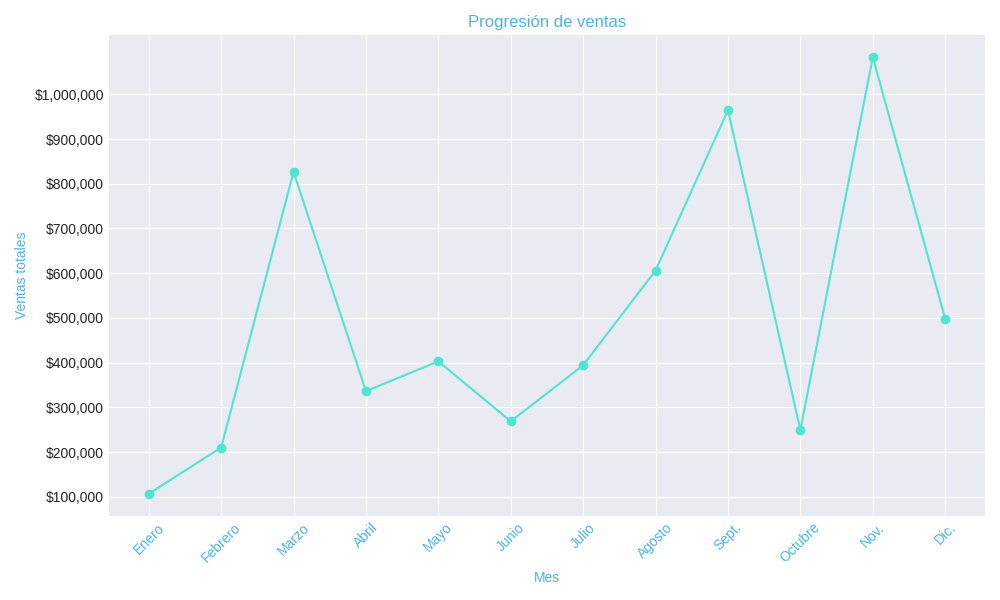
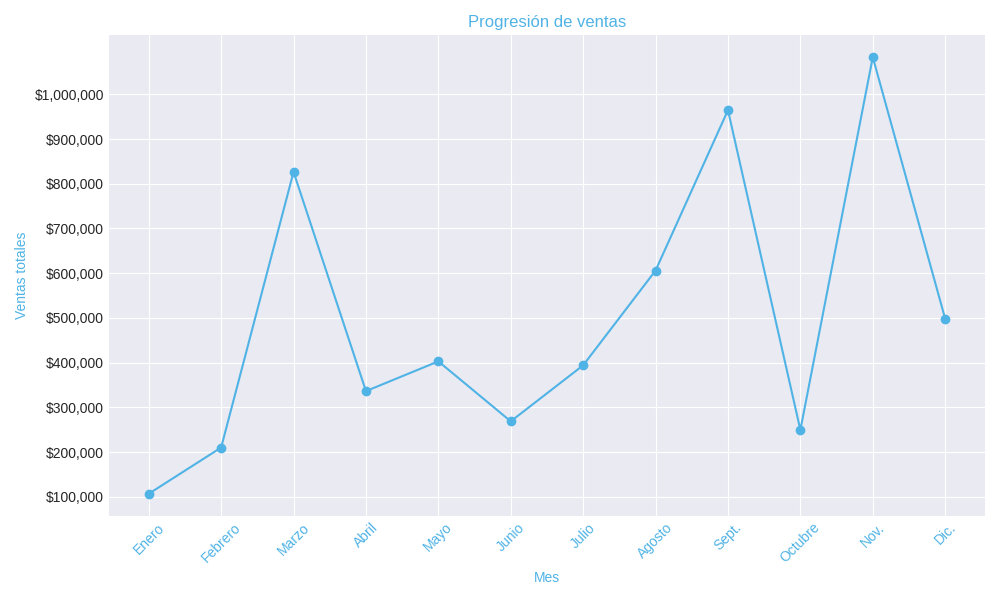
changes to colors

diff --git a/frontend/src/components/analitics.jsx b/frontend/src/components/analitics.jsx
@@ -37,7 +37,7 @@ const monthNames = {
   12: 'Diciembre'
 };
 
-const colors = ['#818282', '#50E5CD', '#50b3e5', '#FFCF44', '#387DA0', '#84C9EC', '#61BAE7', '#ffc416', '#E5CD50'];
+const colors = ['#818282', '#5069E5', '#50b3e5', '#FFCF44', '#387DA0', '#FFD55B', '#61BAE7', '#ffc416', '#E5CD50'];
 
 const Analitics = () => {
   const [data, setData] = useState([]);

diff --git a/backend/src/app.py b/backend/src/app.py
@@ -348,7 +348,7 @@ def anual_sales_line_graph():
     months = ['Enero', 'Febrero', 'Marzo', 'Abril', 'Mayo', 'Junio', 'Julio', 'Agosto', 'Sept.', 'Octubre', 'Nov.', 'Dic.']
 
     plt.figure(figsize=(10, 6))  
-    plt.plot(months, monthly_totals, marker='o', color='#50E5CD')
+    plt.plot(months, monthly_totals, marker='o', color='#50B3E5')
     plt.title('Progresión de ventas' , color='#50b3e5')
     plt.xlabel('Mes', color='#50b3e5')
     plt.ylabel('Ventas totales', color='#50b3e5')
@@ -424,7 +424,7 @@ def linear_regression():
     plt.scatter(combined_months[:12], year1_sales, color='#50b3e5', label='Ventas en 2022', s=80)
     
     
-    plt.plot(combined_months, y_pred, label='Combined Regression Line', color='#50E5CD', linewidth=1.5)
+    plt.plot(combined_months, y_pred, label='Combined Regression Line', color='#818282', linewidth=1.5)
 
     total_sales = 0
     for i, txt in enumerate(y_pred):
